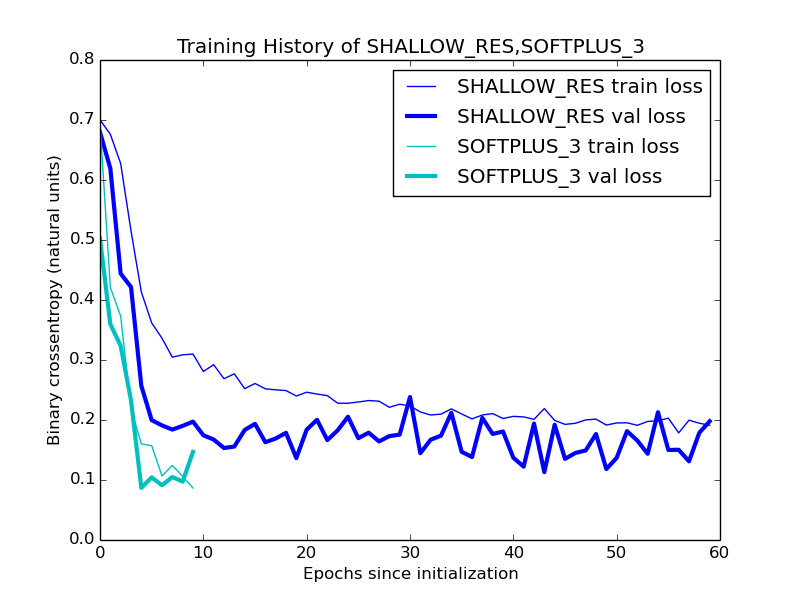
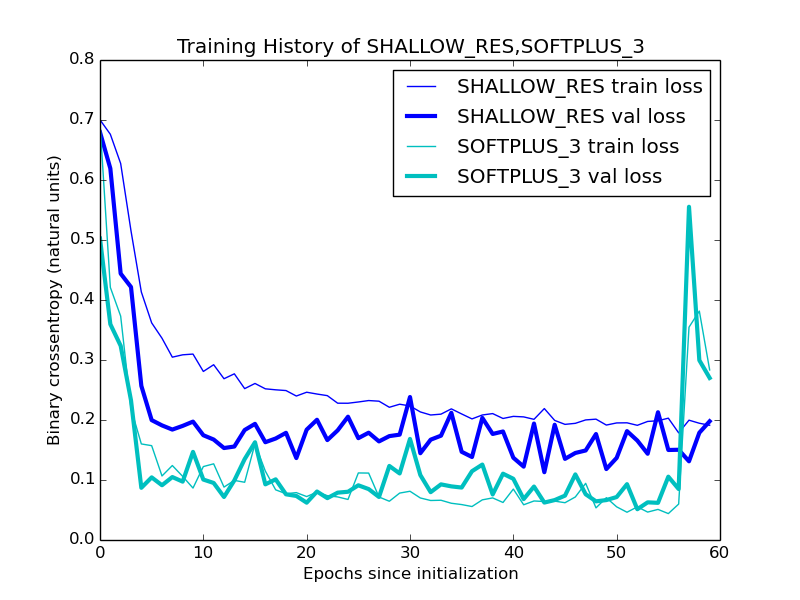
SHALLOW_RES_WIDE

Changed region(s): [[0.3438, 0.33, 0.9062, 0.87], [0.25, 0.72, 0.3438, 0.84], [0.2188, 0.75, 0.25, 0.78]]

diff --git a/model/make_model.py b/model/make_model.py
@@ -157,76 +157,22 @@ def make_squeeze_res(input_shape=(64,64,3)):
     return Model(input=x, output=y)
 
 @compile_classifier 
-def make_squeeze_res_wide_(input_shape=(64,64,3)):
-    ''' Return model with one resnet block followed by two dense layers.
-    '''
-    x = Input(shape=input_shape) 
-    c = Convolution2D(8, 4, 4, subsample=(4, 4), border_mode='same')(x)
-
-    c1 = Convolution2D(8, 3, 3, border_mode='same')(c)
-    b1 = BatchNormalization()(c1)
-    a1 = Activation('softplus')(b1)
-    c2 = Convolution2D(8, 3, 3, border_mode='same')(a1)
-    b2 = BatchNormalization()(c2)
-    a2 = Activation('softplus')(b2)
-    s0 = merge([c, a2], mode='sum')
-    m1 = MaxPooling2D((4, 4))(s0)
-
-    f = Flatten()(m1)
-    y = make_dense(dims=[256, 32, 1], activation='sigmoid')(f)
-    return Model(input=x, output=y)
-
-@compile_classifier 
-def make_squeeze_res_wide__(input_shape=(64,64,3)):
-    ''' Return model with one resnet block followed by two dense layers.
-    '''
-    x = Input(shape=input_shape) 
-    c0 = Convolution2D(16, 4, 4, subsample=(4, 4), border_mode='same')(x)
-
-    c1 = Convolution2D(16, 3, 3, border_mode='same')(c0)
-    b1 = BatchNormalization()(c1)
-    a1 = Activation('softplus')(b1)
-    c2 = Convolution2D(16, 3, 3, border_mode='same')(a1)
-    b2 = BatchNormalization()(c2)
-    a2 = Activation('softplus')(b2)
-    s0 = merge([c0, a2], mode='sum')
-    m1 = MaxPooling2D((4, 4))(s0)
-
-    f = Flatten()(m1)
-    y = make_dense(dims=[256, 32, 1], activation='sigmoid')(f)
-    return Model(input=x, output=y)
-
-@compile_classifier 
-def make_squeeze_res_wide___(input_shape=(64,64,3)):
-    ''' Return model with one resnet block followed by two dense layers.
-    '''
-    x = Input(shape=input_shape) 
-    c0 = Convolution2D(32, 3, 3, activation='softplus', subsample=(2, 2), border_mode='same')(x)
-    c1 = Convolution2D(16, 3, 3, activation='softplus', subsample=(2, 2), border_mode='same')(c0)
-    c2 = Convolution2D( 8, 3, 3, activation='softplus', subsample=(2, 2), border_mode='same')(c1)
-    #c3 = Convolution2D( 4, 3, 3, activation='softplus', subsample=(2, 2), border_mode='same')(c2)
-
-    f = Flatten()(c2)
-    d = Dropout(0.5)(f)
-    z0 = Dense(128, activation='softplus')(d)
-    z1 = Dense(32, activation='softplus')(z0)
-    y = Dense(1, activation='sigmoid')(z1)
-    return Model(input=x, output=y)
-
-
-@compile_classifier 
 def make_squeeze_res_wide(input_shape=(64,64,3)):
     ''' Return model with one resnet block followed by two dense layers.
     '''
     x = Input(shape=input_shape) 
     c0 = Convolution2D(32, 3, 3, activation='softplus', subsample=(2, 2), border_mode='same')(x)
-    c1 = Convolution2D(16, 3, 3, activation='softplus', subsample=(2, 2), border_mode='same')(c0)
-    c2 = Convolution2D( 8, 3, 3, activation='softplus', subsample=(2, 2), border_mode='same')(c1)
+    b0 = BatchNormalization()(c0)
+    c1 = Convolution2D(16, 3, 3, activation='softplus', subsample=(2, 2), border_mode='same')(b0)
+    b1 = BatchNormalization()(c1)
+    c2 = Convolution2D( 8, 3, 3, activation='softplus', subsample=(2, 2), border_mode='same')(b1)
 
-    b = BatchNormalization()(c2)
-    f = Flatten()(b)
+    m = MaxPooling2D((4, 4))(b0)
+    s = merge([c2, m], mode='concat')
+    f = Flatten()(s)
 
-    z0 = Dense(128, activation='softplus')(f)
+    d0 = Dropout(0.5)(f)
+    z0 = Dense(128, activation='softplus')(d0)
     z1 = Dense(32, activation='softplus')(z0)
     y = Dense(1, activation='sigmoid')(z1)
     return Model(input=x, output=y)
